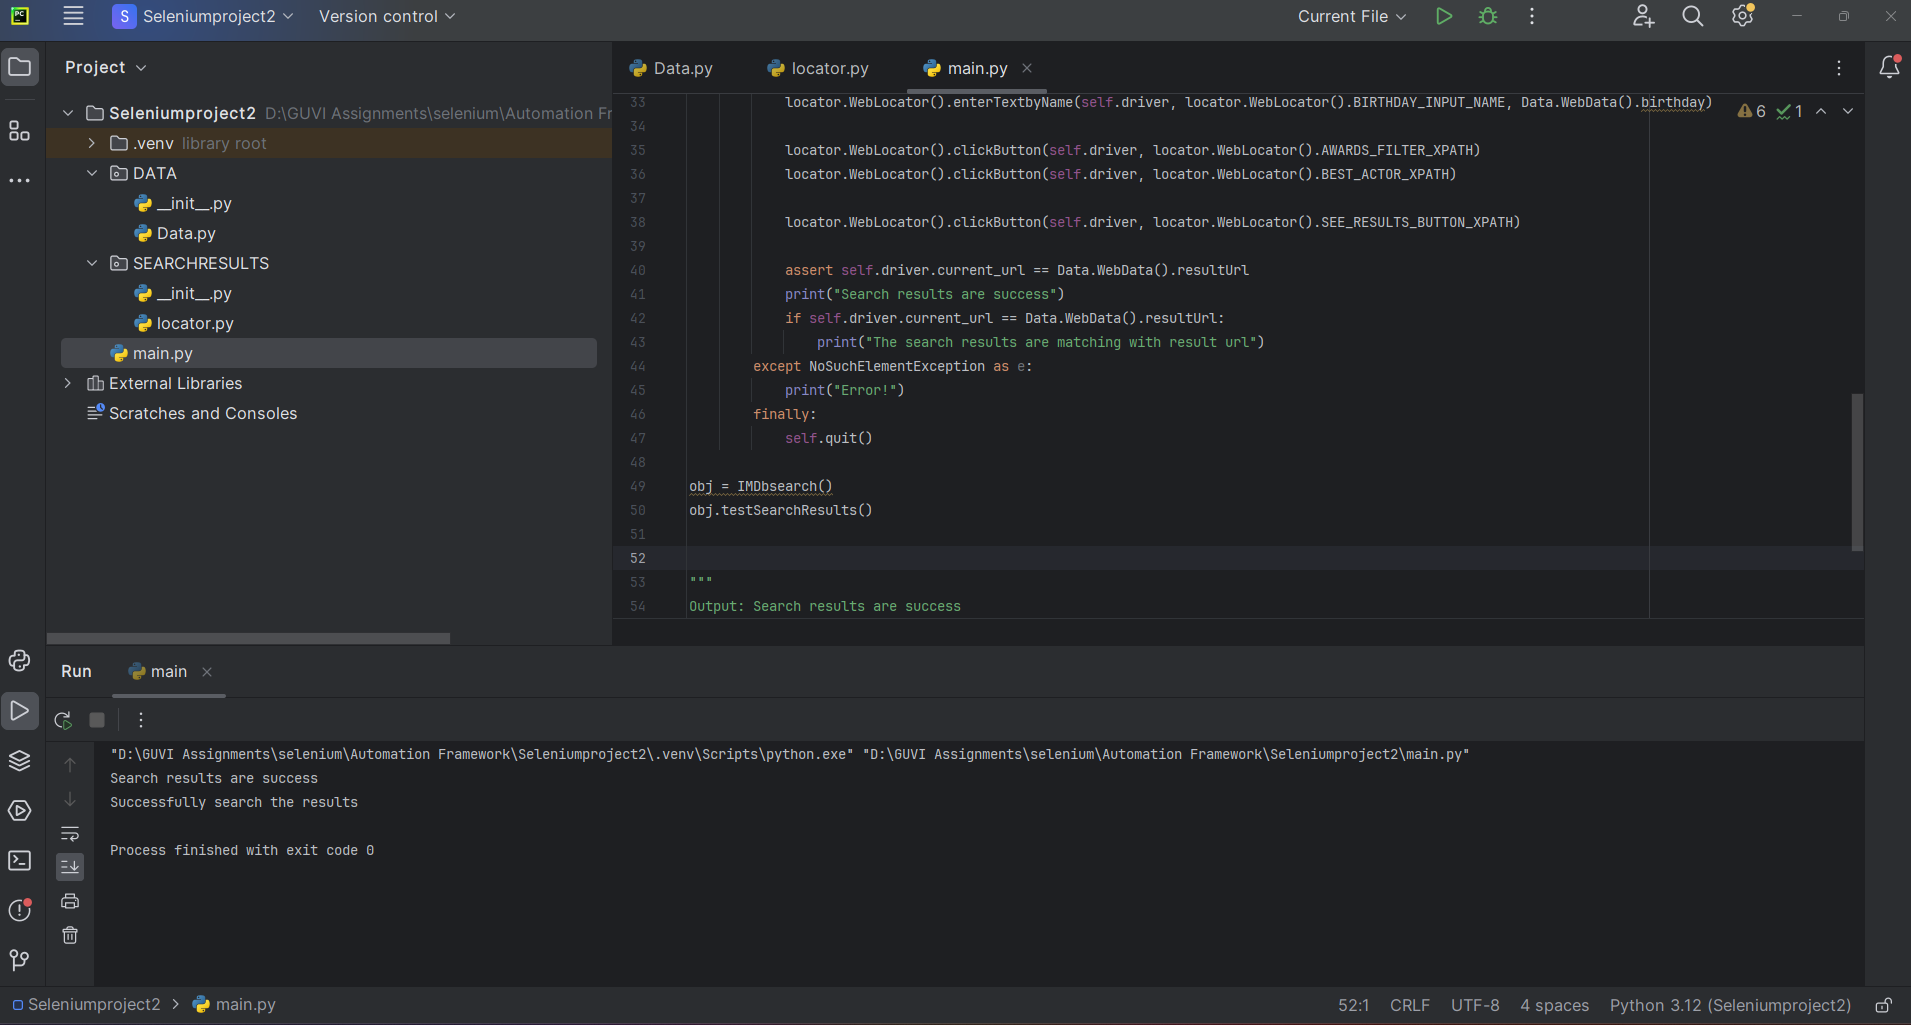
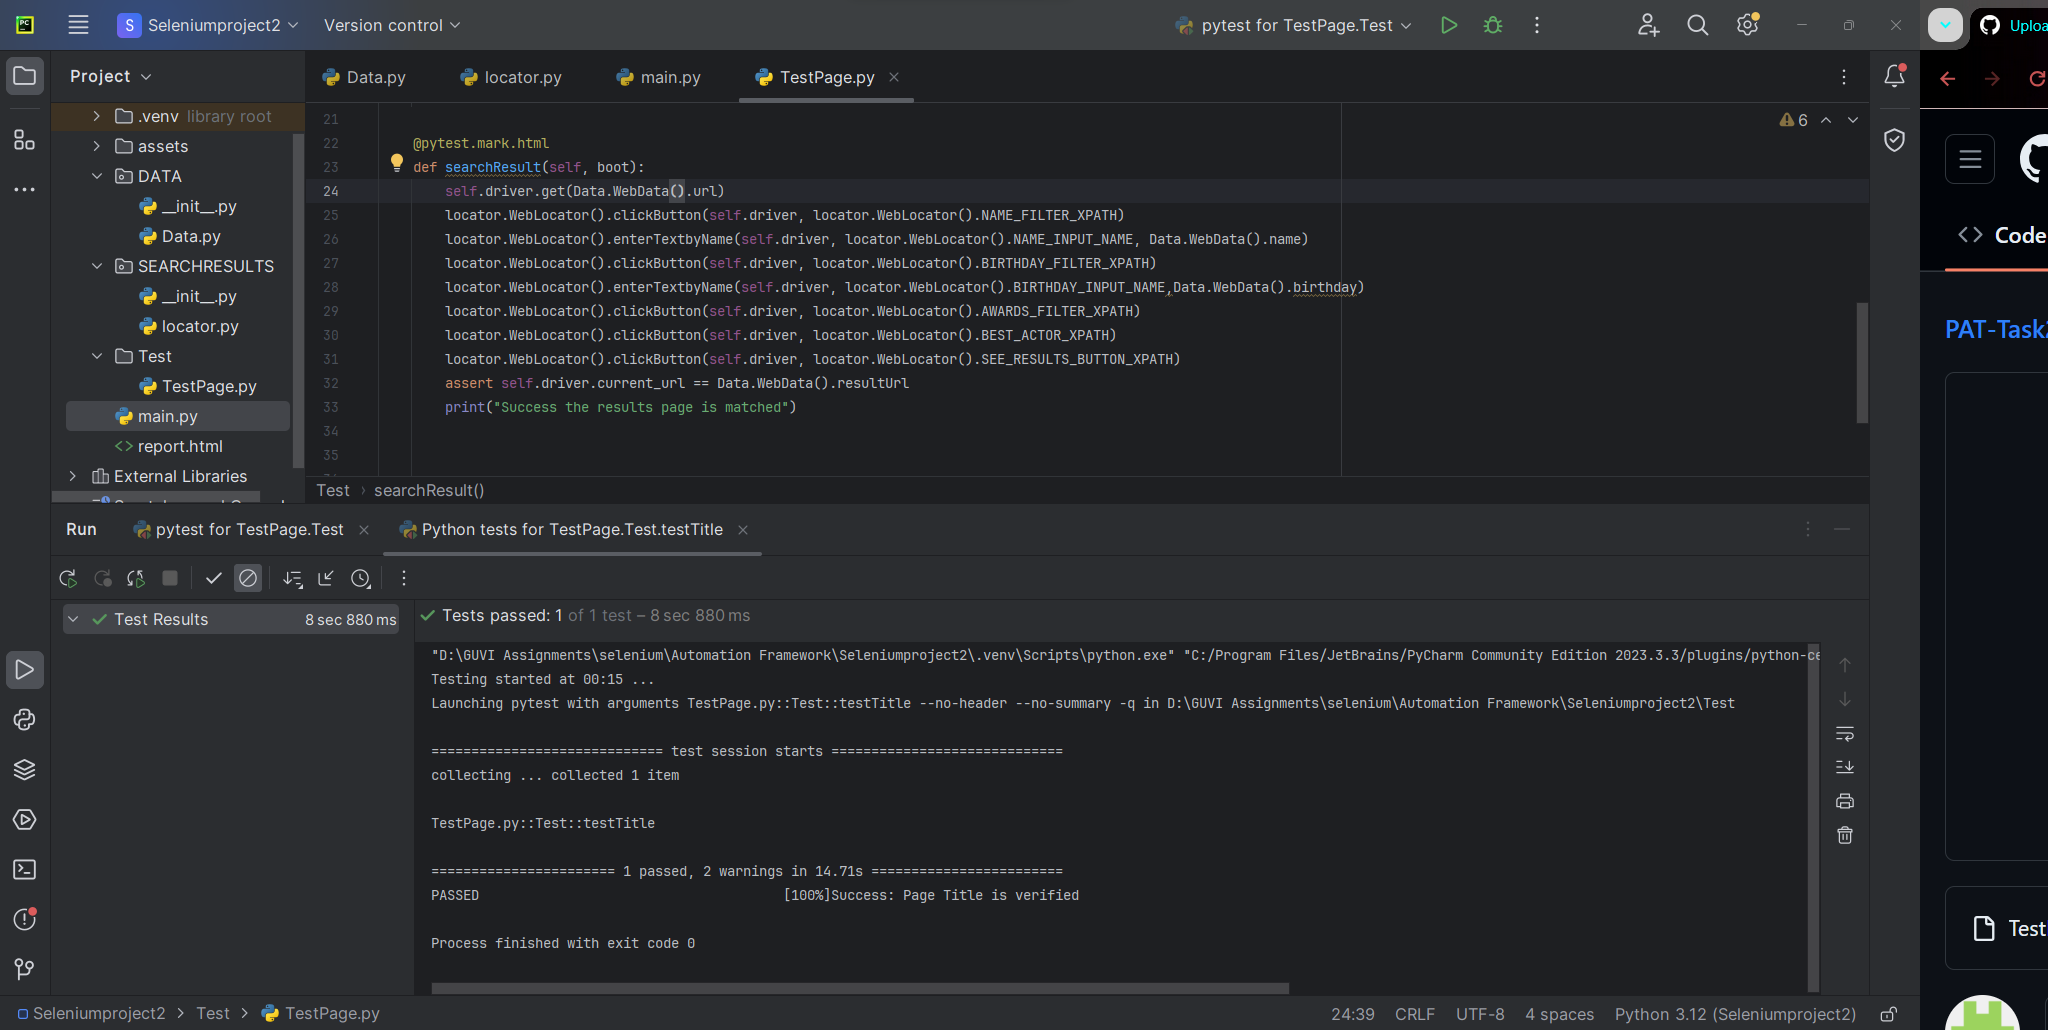
Add files via upload

diff --git a/TestPage.py b/TestPage.py
@@ -1,0 +1,36 @@
+from DATA import Data
+from SEARCHRESULTS import locator
+from selenium import webdriver
+from webdriver_manager.chrome import ChromeDriverManager
+from selenium.webdriver.chrome.service import Service
+
+import pytest
+
+class Test:
+    @pytest.fixture
+    def boot(self):
+        self.driver = webdriver.Chrome(service=Service(ChromeDriverManager().install()))
+        yield
+        self.driver.quit()
+
+    @pytest.mark.html
+    def testTitle(self, boot):
+        self.driver.get(Data.WebData().url)
+        assert self.driver.title == Data.WebData().searchPageTitle
+        print("Success: Page Title is verified")
+
+    @pytest.mark.html
+    def searchResult(self, boot):
+        self.driver.get(Data.WebData().url)
+        locator.WebLocator().clickButton(self.driver, locator.WebLocator().NAME_FILTER_XPATH)
+        locator.WebLocator().enterTextbyName(self.driver, locator.WebLocator().NAME_INPUT_NAME, Data.WebData().name)
+        locator.WebLocator().clickButton(self.driver, locator.WebLocator().BIRTHDAY_FILTER_XPATH)
+        locator.WebLocator().enterTextbyName(self.driver, locator.WebLocator().BIRTHDAY_INPUT_NAME,Data.WebData().birthday)
+        locator.WebLocator().clickButton(self.driver, locator.WebLocator().AWARDS_FILTER_XPATH)
+        locator.WebLocator().clickButton(self.driver, locator.WebLocator().BEST_ACTOR_XPATH)
+        locator.WebLocator().clickButton(self.driver, locator.WebLocator().SEE_RESULTS_BUTTON_XPATH)
+        assert self.driver.current_url == Data.WebData().resultUrl
+        print("Success the results page is matched")
+
+
+
